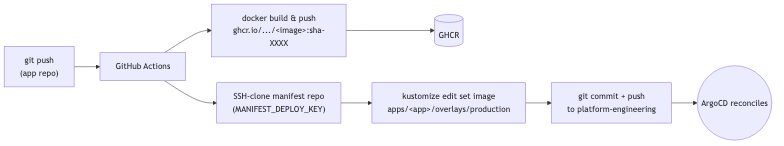
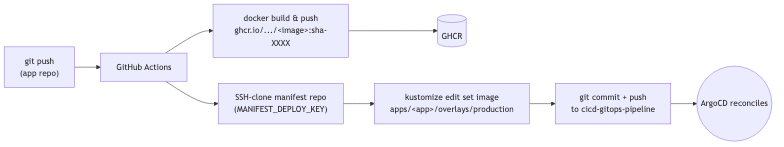
docs: update repo references after rename to cicd-gitops-pipeline
All in-repo references to platform-engineering have been substituted
with the new name. Diagrams re-rendered. The README H1 will be
updated next.

diff --git a/docs/runbook.md b/docs/runbook.md
@@ -31,7 +31,7 @@ Use this when the new app's own repository is the right home for its Dockerfile 
    spec:
      project: default
      source:
-       repoURL: https://github.com/alexmchughdev/platform-engineering.git
+       repoURL: https://github.com/alexmchughdev/cicd-gitops-pipeline.git
        targetRevision: main
        path: apps/<app>/overlays/production
      destination:
@@ -108,7 +108,7 @@ Common causes and fixes:
 gh run list -R alexmchughdev/<repo> --limit 3
 
 # 2. Manifest commit landed
-git -C ~/path/to/platform-engineering pull
+git -C ~/path/to/cicd-gitops-pipeline pull
 grep newTag apps/<app>/overlays/production/kustomization.yaml
 
 # 3. ArgoCD reconciled
@@ -129,9 +129,9 @@ The same SSH keypair is used by every CI repo that pushes to this manifest repo.
    ```
    ssh-keygen -t ed25519 -N "" -C "manifest-deploy-key" -f /tmp/manifest-key
    ```
-2. Add the new public key as a deploy key (write access) on `alexmchughdev/platform-engineering`:
+2. Add the new public key as a deploy key (write access) on `alexmchughdev/cicd-gitops-pipeline`:
    ```
-   gh repo deploy-key add /tmp/manifest-key.pub -R alexmchughdev/platform-engineering --title "manifest-deploy-key" --allow-write
+   gh repo deploy-key add /tmp/manifest-key.pub -R alexmchughdev/cicd-gitops-pipeline --title "manifest-deploy-key" --allow-write
    ```
 3. Update the secret on every repo that uses it:
    ```
@@ -140,7 +140,7 @@ The same SSH keypair is used by every CI repo that pushes to this manifest repo.
    done
    ```
 4. Trigger a build on each to confirm the new key works.
-5. Once all CI runs are green, delete the old deploy key from `platform-engineering` (Settings → Deploy keys).
+5. Once all CI runs are green, delete the old deploy key from `cicd-gitops-pipeline` (Settings → Deploy keys).
 6. `rm /tmp/manifest-key /tmp/manifest-key.pub`.
 
 ## Clean up orphaned GHCR packages

diff --git a/docs/architecture.md b/docs/architecture.md
@@ -1,6 +1,6 @@
 # Architecture
 
-How a commit becomes a deployment, end-to-end. Two CI/CD patterns coexist; both land in this manifest repo and reconcile through ArgoCD.
+How a commit becomes a deployment, end-to-end. Every app's CI lands in this manifest repo and reconciles through ArgoCD.
 
 ## Cluster topology
 
@@ -60,7 +60,7 @@ flowchart LR
   gha --> ghcr[("GHCR<br/>ghcr.io/alexmchughdev/&lt;image&gt;:sha-XXXX")]
   gha --> sshclone["SSH-clone this repo<br/>(MANIFEST_DEPLOY_KEY)"]
   sshclone --> kedit["kustomize edit set image<br/>in apps/&lt;app&gt;/overlays/production"]
-  kedit --> commit["git commit + push<br/>to platform-engineering main"]
+  kedit --> commit["git commit + push<br/>to cicd-gitops-pipeline main"]
   commit -. ArgoCD watches .-> argocd[ArgoCD]
   argocd --> rolling["rolling update<br/>(new image, old ReplicaSet drained)"]
 ```
@@ -76,7 +76,7 @@ flowchart LR
 ```mermaid
 sequenceDiagram
   participant CI as GitHub Actions
-  participant Repo as platform-engineering
+  participant Repo as cicd-gitops-pipeline
   participant Argo as ArgoCD
   participant K8s as RKE2 API
   CI->>Repo: commit kustomize edit (image tag)

diff --git a/README.md b/README.md
@@ -17,7 +17,7 @@ flowchart LR
   dev["developer<br/>git push"] --> appRepo["GitHub<br/>app repo"]
   appRepo --> ci["GitHub Actions<br/>build &amp; push"]
   ci --> ghcr[("GHCR<br/>image registry")]
-  ci --> manifest["GitHub<br/>platform-engineering<br/>(this repo)"]
+  ci --> manifest["GitHub<br/>cicd-gitops-pipeline<br/>(this repo)"]
   manifest -. ArgoCD watches .-> argocd["ArgoCD<br/>(in cluster)"]
   argocd -- reconciles --> rke2["RKE2 cluster<br/>(Rocky Linux 9, 1 node)"]
   ghcr -. pull .-> rke2
